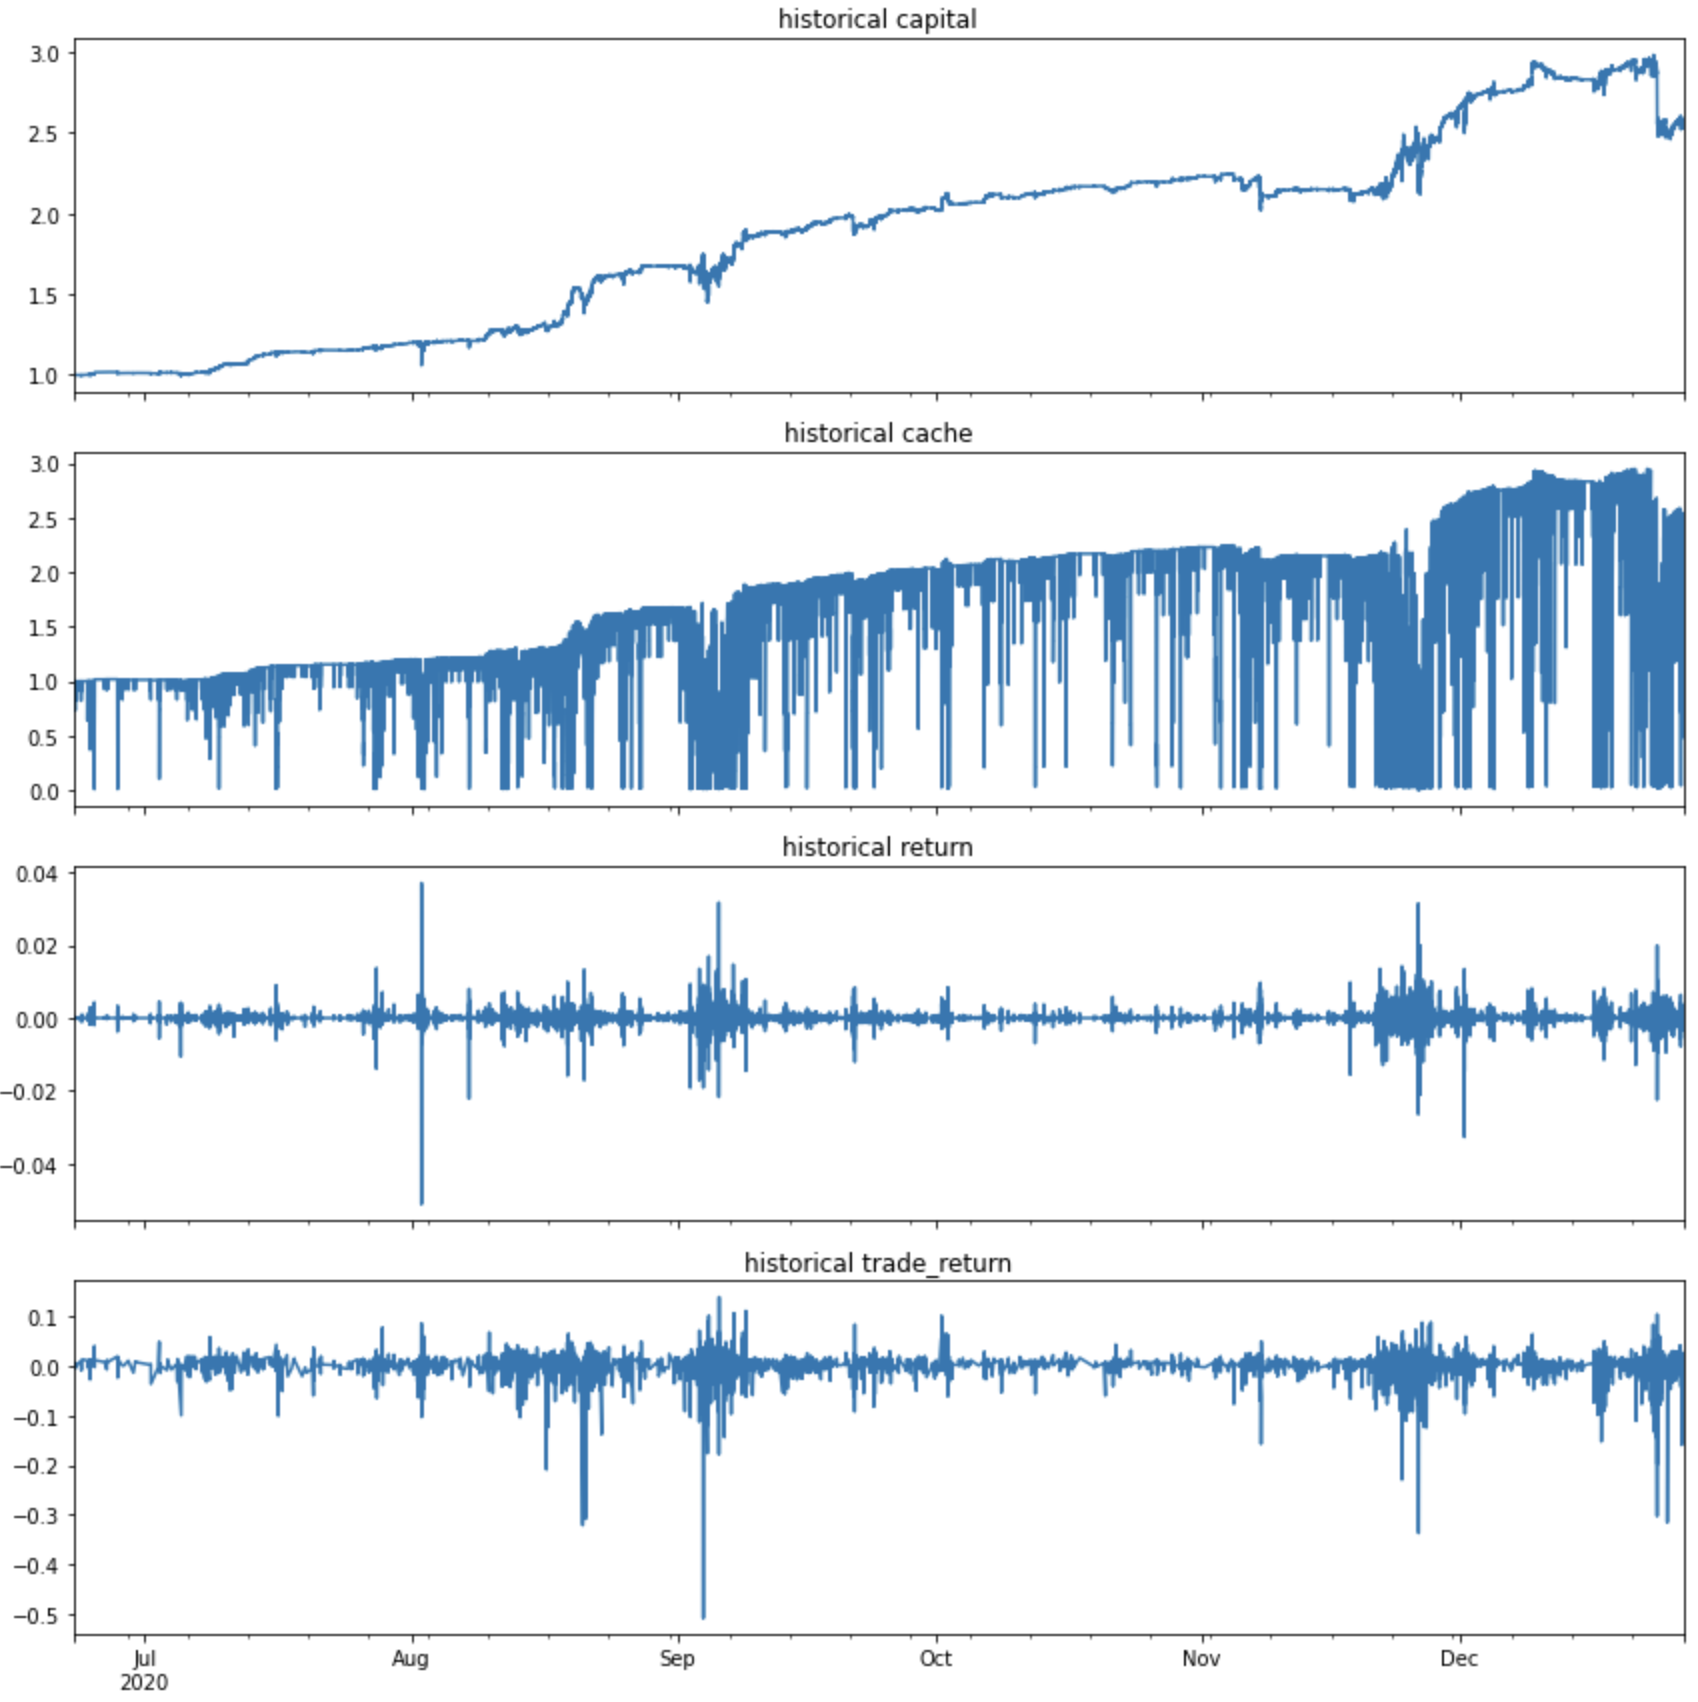
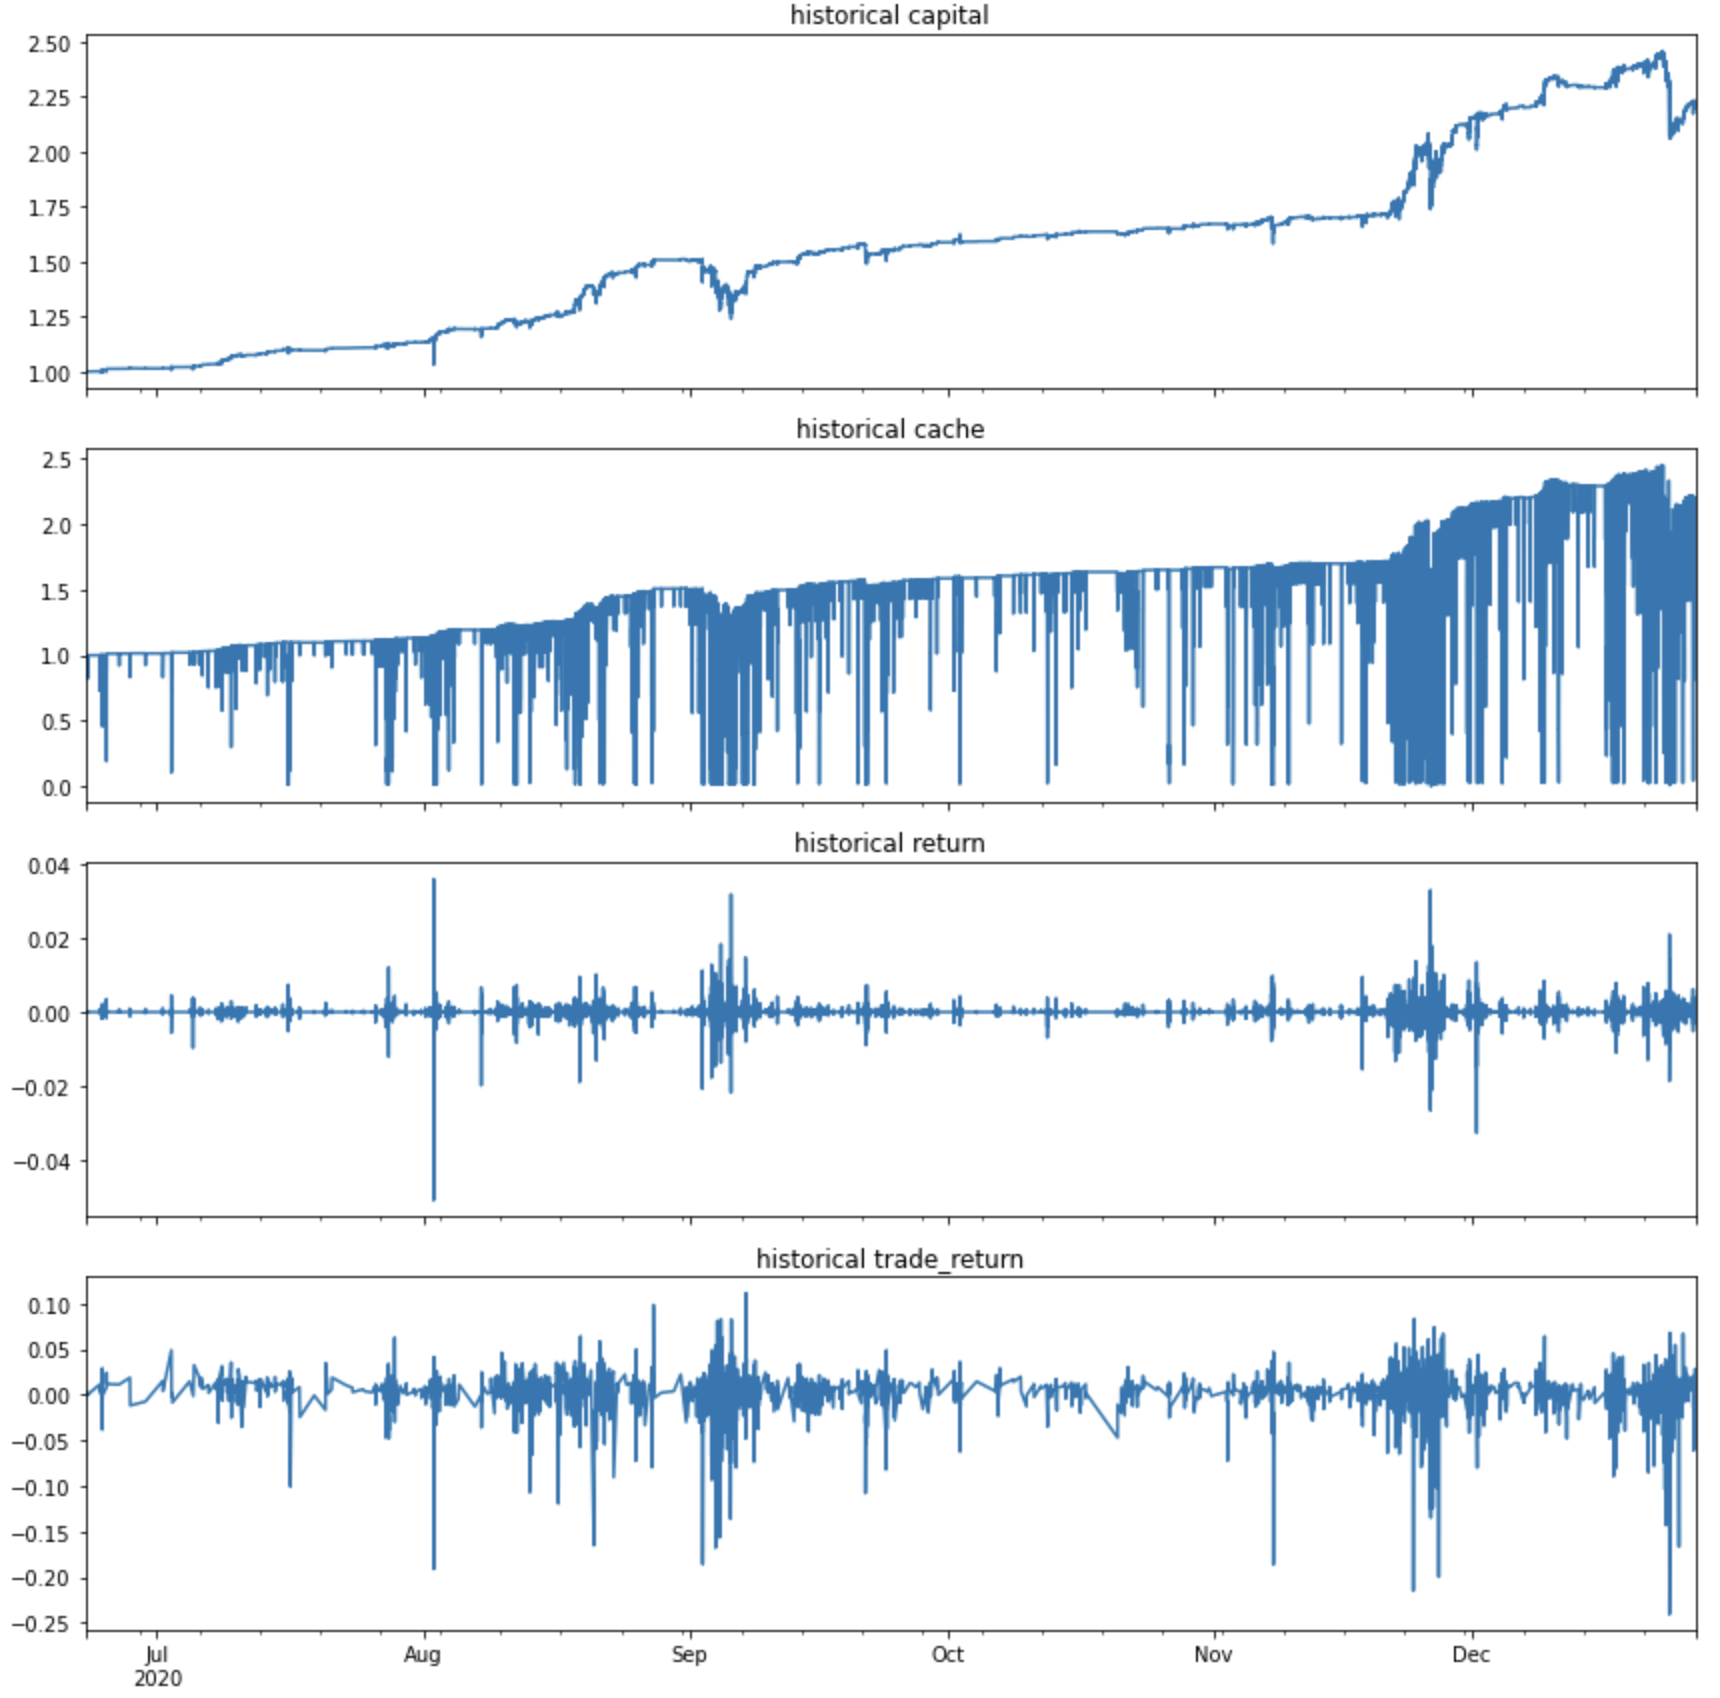
use more stable model as default model

diff --git a/README.md b/README.md
@@ -119,11 +119,11 @@ Binance future trader deals in multiple cryptocurrencies simultaneously. In defa
 The results below are after the commission was paid to the exchange.
 Backtesting setting `Commisions: {"entry": 0.04%, "exit": 0.02% | 0.04%, "spread": 0.04%}`
 ```
-trade_winning_ratio    0.666444
-trade_sharpe_ratio     1.692926
-trade_avg_return       0.001859
-max_drawdown          -0.175406
-total_return           1.578512
+trade_winning_ratio    0.672455
+trade_sharpe_ratio     2.259413
+trade_avg_return       0.002384
+max_drawdown          -0.180155
+total_return           1.227099
 ```
 ![Performance4](images/performance4.png)
 
